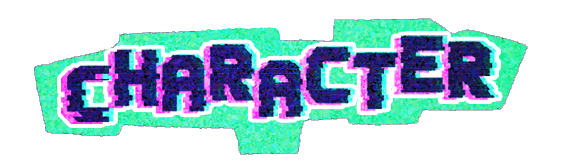
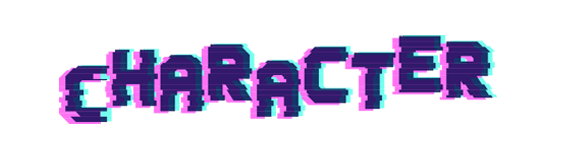
fix ui

diff --git a/app/page2/Components/SlideVideo/index.js b/app/page2/Components/SlideVideo/index.js
@@ -43,14 +43,14 @@ const SlideVideo = ({
     }
   };
 
-  const renderImgSvg = (id, url, urHover, isHover) => {
+  const renderImgSvg = (id, url, urHover, isHover, scale = 1) => {
     // const getId = (isClick) => {
     //     if(isClick)
     //  }
     return (
       <>
-        <image href={url} id={isHover ? 'no-data' : id} height="100" />
-        <image href={urHover} id={!isHover ? 'no-data' : id} height="100" />
+        <image href={url} id={isHover ? 'no-data' : id} height={100} />
+        <image href={urHover} id={!isHover ? 'no-data' : id} height={scale * 100} />
       </>
     );
   };
@@ -73,9 +73,9 @@ const SlideVideo = ({
         {/* img character */}
         <rect
           className=" cursor-pointer"
-          x={1035}
+          x={1055}
           y={340}
-          width="420"
+          width="480"
           height="170"
           fill={`url(#pattern1${keySVG})`}
         />
@@ -117,9 +117,9 @@ const SlideVideo = ({
               transform="scale(0.0037 0.009)"
             />
           </pattern>
-          <pattern id={`pattern1${keySVG}`} patternContentUnits="objectBoundingBox" width="1" height="1">
+          <pattern x={1000} id={`pattern1${keySVG}`} patternContentUnits="objectBoundingBox" width="1" height="1">
             <use xlinkHref={`#image1_1220_6${keySVG}`}
-              transform="scale(0.0037 0.009)"
+              transform="scale(0.0031 0.009)"
             />
           </pattern>
           <pattern
@@ -168,20 +168,21 @@ const SlideVideo = ({
           {renderImgSvg(
             `image0_1220_6${keySVG}`,
             images.home.banner2.branding,
-            images.home.banner2.branding,
+            images.home.banner2.brandingClick,
             hoverBranding
           )}
           {renderImgSvg(
             `image1_1220_6${keySVG}`,
             images.home.banner2.character,
-            images.home.banner2.character,
+            images.home.banner2.characterClick,
             hoverCharacter
           )}
           {renderImgSvg(
             `image2_1220_6${keySVG}`,
             images.home.banner2.gameArt,
             images.home.banner2.gameArtClick,
-            hoverGameArt
+            hoverGameArt,
+            0.97999999
           )}
           {/*
           {renderImgSvg(

diff --git a/config/images.js b/config/images.js
@@ -35,8 +35,10 @@ export const images = {
       tableGameArt: '/assets/images/Home/Banner2/tableGameArt.png',
       tableCharacter: '/assets/images/Home/Banner2/tableChacter.png',
       branding: '/assets/images/Home/Banner2/branding.png',
+      brandingClick: '/assets/images/Home/Banner2/brandingClick.png',
       tableBranding: '/assets/images/Home/Banner2/tableBranding.png',
-      character: '/assets/images/Home/Banner2/character.png'
+      character: '/assets/images/Home/Banner2/character.png',
+      characterClick: '/assets/images/Home/Banner2/characterClick.png'
 
     }
   }
